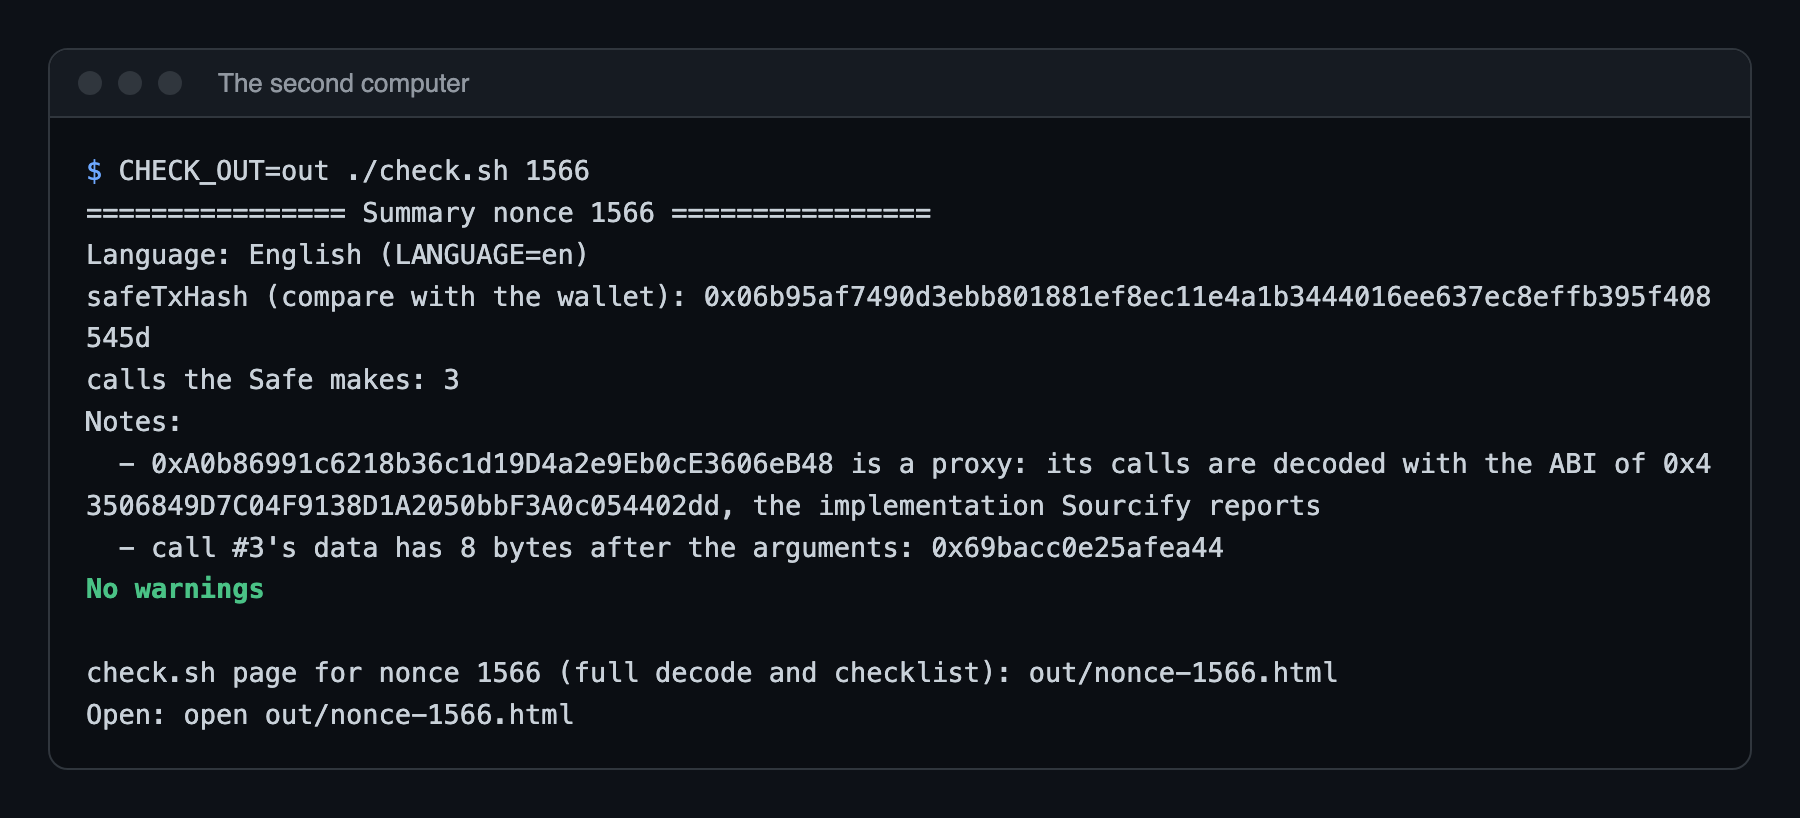
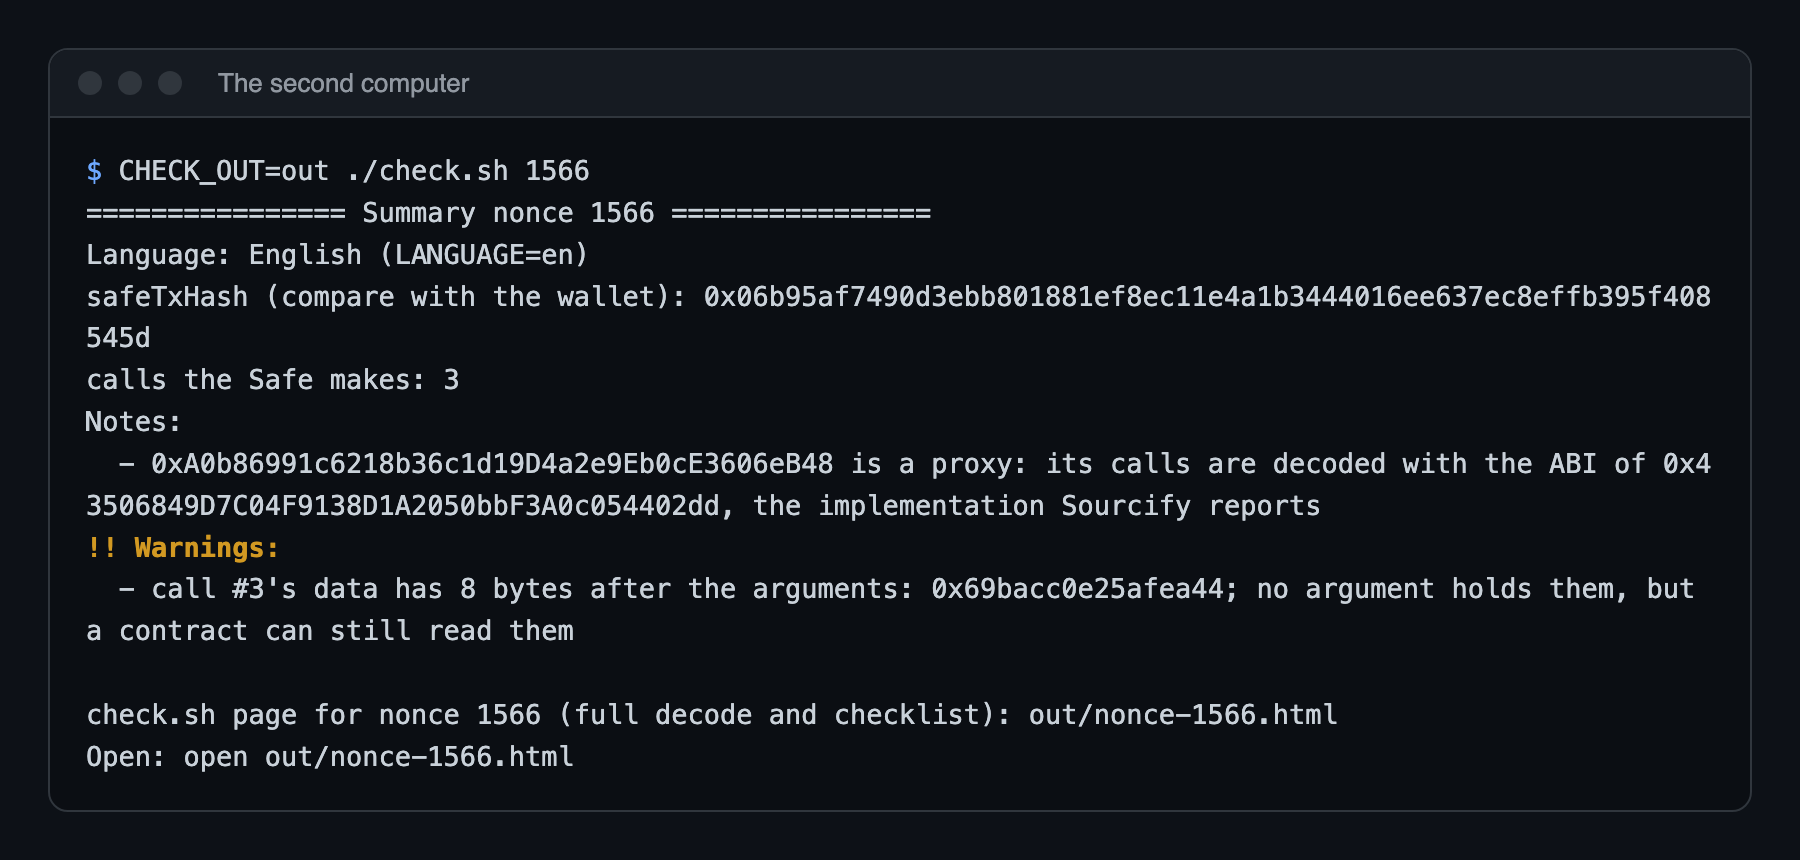
Reshoot the terminal and side-by-side screenshots from 3c27d38, which warns on bytes after the arguments

diff --git a/README.md b/README.md
@@ -64,7 +64,7 @@ For a transaction whose template reads `bytes` that no ABI describes, the comman
 
 It fetches the transactions at that nonce from `api.safe.global`, and the ABI of each contract a call goes to from `sourcify.dev`, both mainnet only and with no API key. Those are its only network requests. `./check.sh --file <tx.json>` reads the transactions from a file instead, and refuses a file whose transactions do not all share one nonce; it still asks Sourcify for the ABIs. Sourcify thus learns which contracts your pending transaction calls. If Sourcify does not answer, or answers with anything but the contract's ABI or "not verified", `check.sh` stops and writes no page; run it again later. The terminal prints a summary (here run with `CHECK_OUT=out`, so the page path is short):
 
-![The terminal after ./check.sh 1566: the safeTxHash, 3 calls from the Safe, a note that USDC is a proxy whose calls are decoded with the ABI of the implementation Sourcify reports, a note that call #3 has 8 bytes after its arguments, no warnings, and the path of the page](docs/readme/terminal.png)
+![The terminal after ./check.sh 1566: the safeTxHash, 3 calls from the Safe, a note that USDC is a proxy whose calls are decoded with the ABI of the implementation Sourcify reports, a warning that call #3 has 8 bytes after its arguments, which no argument holds but a contract can still read, and the path of the page](docs/readme/terminal.png)
 
 This is a real run, on another Safe's Morpho vault deposit: an `approve` and a Bundler3 `multicall`, batched through MultiSend. Open the page and check four things:
 
